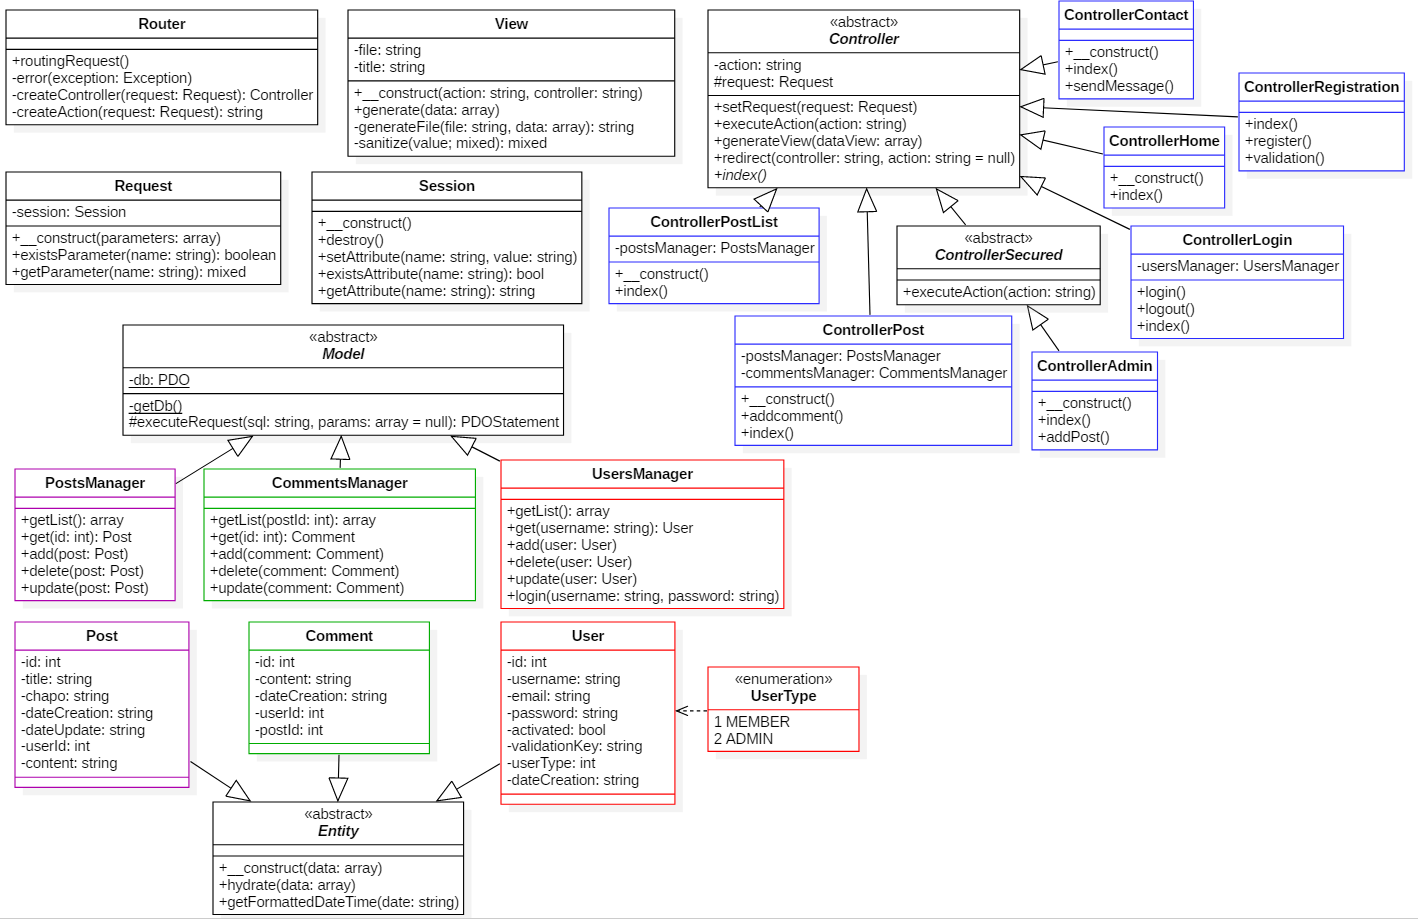
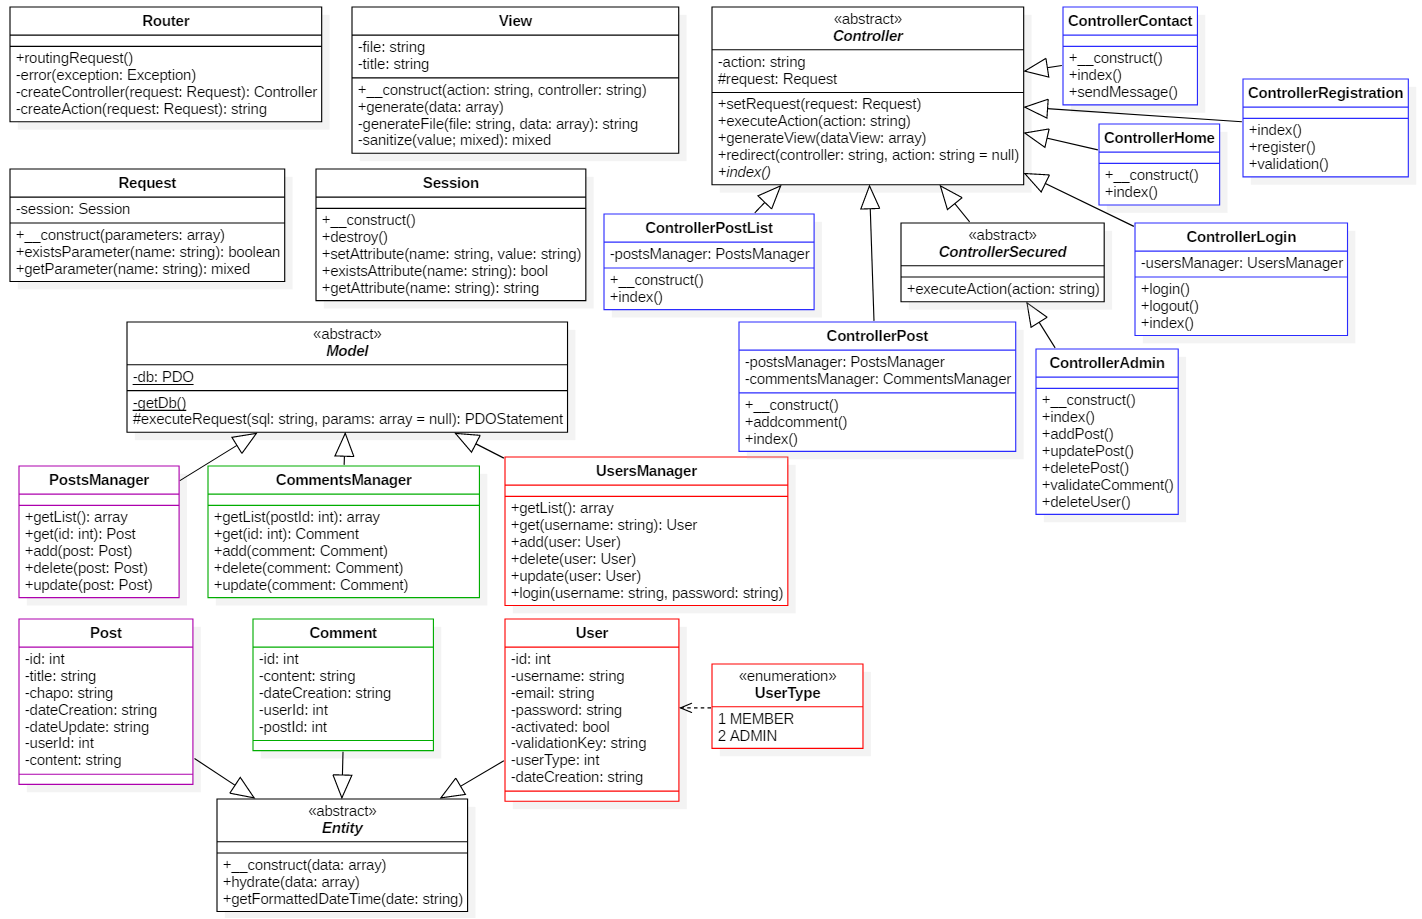
Authentification system almost complete and begin of the admin panel

Changed region(s): [[0.0, 0.0, 0.9929, 1.0]]

diff --git a/View/Post/index.php b/View/Post/index.php
@@ -1,13 +1,5 @@
 <?php $this->title = "Mon Blog - " . $this->sanitize($post->getTitle()) ?>
 
-  	<!-- Debug -->
-    <?php if(isset($_SESSION['username'])) { ?>
-        <div class="alert alert-success" style="position:fixed; right:0; bottom:0; width:500px; z-index:100;">
-          <a href="#" class="close" data-dismiss="alert" aria-label="close">&times;</a>
-    	  <?= var_dump($post) ?>
-    	</div>
-    <?php } ?>
-
 <!-- Page Header -->
 <header class="masthead" style="background-image: url('Content/startbootstrap-clean-blog-gh-pages/img/post-bg.jpg')">
   <div class="overlay"></div>
@@ -52,24 +44,27 @@
 </div>
 
 <hr />
-
+<?php 
+    if(isset($_SESSION['userType']))
+    {
+?>
 <!-- Ajout d'un commentaire -->
 <div class="container">
   <div class="row">
     <div class="col-lg-8 col-md-10 mx-auto">
       <p>Ajouter un commentaire :</p>
-      <form methode="post" action="post/addComment" name="sentMessage" id="contactForm" novalidate>
+      <form method="post" action="post/addComment" name="sentMessage" id="commentForm" novalidate>
         
         <div class="control-group">
           <div class="form-group floating-label-form-group controls">
             <label>Votre commentaire</label>
-            <textarea name="content" rows="5" class="form-control" placeholder="Votre commentaire" id="message" required data-validation-required-message="Please enter a message."></textarea>
+            <textarea name="content" rows="5" class="form-control" placeholder="Votre commentaire" id="content" required data-validation-required-message="Please enter a message."></textarea>
             <p class="help-block text-danger"></p>
           </div>
         </div>
         <br>
         
-        <input type="hidden" name="postId" value="<?= $this->sanitize($post->getId()) ?>" required/>
+        <input type="hidden" name="id" value="<?= $this->sanitize($post->getId()) ?>" required/>
         
         <div id="success"></div>
         <div class="form-group">
@@ -80,3 +75,19 @@
     </div>
   </div>
 </div>
+<?php 
+    }
+    else 
+    {
+        
+?>
+<div class="container">
+  <div class="row">
+    <div class="col-lg-8 col-md-10 mx-auto">
+      <p>Veuillez vous connectez pour publier un commentaire</p>
+    </div>
+  </div>
+</div>
+<?php 
+    }
+?>

diff --git a/Controller/ControllerAdmin.php b/Controller/ControllerAdmin.php
@@ -1,8 +1,9 @@
 <?php
 
-use \Sorha\Framework\ControllerSecured;
 use \BlogMVC\Model\Manager\PostsManager;
 use \BlogMVC\Model\Entity\Post;
+
+require_once 'ControllerSecured.php'; // Pas de namespace utilisé car sinon casse le système de création automatique de controller
 
 /** Controleur des actions d'administration. Hérite de ControllerSecured afin de vérifier l'authentification */
 class ControllerAdmin extends ControllerSecured
@@ -29,7 +30,7 @@ class ControllerAdmin extends ControllerSecured
         $userId = $this->request->getSession()->getAttribute("userId");
         $content = $this->request->getParameter("content");
         
-        // Création d'un nouvel objet Comment
+        // Création d'un nouvel objet Post
         $post = new Post(array('title' => $title, 'chapo' => $chapo, 'content' => $content, 'dateCreation' => date('Y-m-d H:i:s'), 'userId' => $userId));
         // Ajout de l'objet Post dans la base de données
         $this->postsManager->add($post);
@@ -37,4 +38,35 @@ class ControllerAdmin extends ControllerSecured
         // Exécution de l'action par défaut pour réafficher le menu d'administration
         $this->executeAction("index");
     }
+    
+    public function updatePost()
+    {
+        $id = $this->request->getParameter("id");
+        $title = $this->request->getParameter("title");
+        $chapo = $this->request->getParameter("chapo");
+        $content = $this->request->getParameter("content");
+        
+        // Création d'un nouvel objet Post
+        $post = new Post(array('id' => $id, 'title' => $title, 'chapo' => $chapo, 'content' => $content));
+        // Ajout de l'objet Post dans la base de données
+        $this->postsManager->update($post);
+    }
+    
+    public function deletePost()
+    {
+        $id = $this->request->getParameter("id");
+        $post = new Post(array('id' => $id));
+        $this->postsManager->delete($post);
+    }
+    
+    public function validateComment()
+    {
+        
+    }
+    
+    public function deleteUser()
+    {
+        
+    }
+    
 }

diff --git a/View/template.php b/View/template.php
@@ -22,10 +22,10 @@
 
   <body>
   	<!-- Debug -->
-    <?php if(isset($_SESSION['username'])) { ?>
+    <?php if(!empty($_SESSION['username'])) { ?>
         <div class="alert alert-success" style="position:fixed; left:0; bottom:0; z-index:100;">
           <a href="#" class="close" data-dismiss="alert" aria-label="close">&times;</a>
-    	  <?= var_dump($_SESSION) ?>Connecté en tant que <strong><?= $_SESSION['username'] . ' - ' . ucfirst($_SESSION['userType']) ?></strong>
+    	  Connecté en tant que <strong><?= $_SESSION['username'] . ' </strong><br />Vous êtes <strong>' . ucfirst($_SESSION['userType'])?></strong>
     	</div>
     <?php } ?>
     
@@ -48,18 +48,46 @@
             <li class="nav-item">
               <a class="nav-link" href="contact">Contact</a>
             </li>
+            <?php
+            if(isset($_SESSION['userType']) && $_SESSION['userType'] === 'admin')
+            {
+            ?>  
             <li class="nav-item">
               <a class="nav-link" href="admin">Administration</a>
             </li>
+            <?php 
+            }
+            ?>
+            <?php
+            if(!isset($_SESSION['userType']))
+            {
+            ?>  
             <li class="nav-item">
               <a class="nav-link" href="registration">Inscription</a>
             </li>
+            <?php
+            }
+            ?>
+            <?php
+            if(!isset($_SESSION['userType']))
+            {
+            ?>  
             <li class="nav-item">
               <a class="nav-link" href="login">Connexion</a>
             </li>
+            <?php
+            }
+            ?>
+            <?php
+            if(isset($_SESSION['userType']))
+            {
+            ?>  
             <li class="nav-item">
               <a class="nav-link" href="login/logout">Deconnexion</a>
             </li>
+            <?php
+            }
+            ?>  
           </ul>
         </div>
       </div>

diff --git a/Controller/ControllerPost.php b/Controller/ControllerPost.php
@@ -21,7 +21,7 @@ class ControllerPost extends Controller
 	// Ajoute un commentaire au post
 	public function addComment()
 	{
-		$postId = $this->request->getParameter("postId");
+		$postId = $this->request->getParameter("id");
 		$userId = $this->request->getSession()->getAttribute("userId");
         $content = $this->request->getParameter("content");
 
@@ -29,7 +29,6 @@ class ControllerPost extends Controller
 		$comment = new Comment(array('content' => $content, 'dateCreation' => date('Y-m-d H:i:s'), 'userId' => $userId, 'postId' => $postId));
 		// Ajout de l'objet Comment dans la base de données
         $this->commentsManager->add($comment);
-        
         // Exécution de l'action par défaut pour réafficher la liste des billets
         $this->executeAction("index");
 	}

diff --git a/Controller/ControllerLogin.php b/Controller/ControllerLogin.php
@@ -38,8 +38,12 @@ class ControllerLogin extends Controller
                         $this->request->getSession()->setAttribute("userType", 'admin');
                         $this->redirect("Admin");
                     }
-                    $this->request->getSession()->setAttribute("userType", 'member');
-                    $this->redirect("Home");
+                    else
+                    {
+                        $this->request->getSession()->setAttribute("userType", 'member');
+                        $this->redirect("Home");
+                    }
+
                 }
                 else
                 {

diff --git a/Controller/ControllerSecured.php b/Controller/ControllerSecured.php
@@ -1,6 +1,6 @@
 <?php
 
-namespace Sorha\Framework;
+use \Sorha\Framework\Controller;
 
 /** Classe parente des contrôleurs soumis à l'authentification */
 abstract class ControllerSecured extends Controller
@@ -15,6 +15,10 @@ abstract class ControllerSecured extends Controller
             if ($this->request->getSession()->getAttribute("userType") === 'admin')
             {
                 parent::executeAction($action);
+            }
+            else
+            {
+                $this->redirect("Login");
             }
         }
         else 

diff --git a/Framework/Router.php b/Framework/Router.php
@@ -11,7 +11,7 @@ class Router
         {
             // Fusion des paramètres GET et POST de la requête
             // La création d'une requête crée également une session
-            $request = new Request(array_merge($_GET, $_POST));
+            $request = new Request($_REQUEST);
 
             $controller = $this->createController($request);
             $action  = $this->createAction($request);

diff --git a/Framework/Request.php b/Framework/Request.php
@@ -1,5 +1,4 @@
 <?php
-
 namespace Sorha\Framework;
 
 // A pour rôle de modéliser une requête
@@ -24,7 +23,7 @@ class Request
 	// Renvoie vrai si le paramètre existe dans la requête
 	public function existsParameter($name)
 	{
-		return (isset($this->parameters[$name]) && $this->parameters[$name] != "");
+		return (!empty($this->parameters[$name]));
 	}
 
 	// Renvoie la valeur du paramètre demandé

diff --git a/Framework/Controller.php b/Framework/Controller.php
@@ -29,7 +29,7 @@ abstract class Controller
      * 
      * @throws \Exception Si l'action n'existe pas dans la classe Controleur courante
      */
-	public function executeAction($action) 
+	public function executeAction($action)
 	{
 		if (method_exists($this, $action)) // Verifie si une méthode qui se nomme $action existe dans la classe actuelle.
 		{

diff --git a/Framework/Session.php b/Framework/Session.php
@@ -52,7 +52,8 @@ class Session
      */
     public function getAttribute($name)
     {
-        if ($this->existsAttribute($name)) {
+        if ($this->existsAttribute($name)) 
+        {
             return $_SESSION[$name];
         }
         else {
